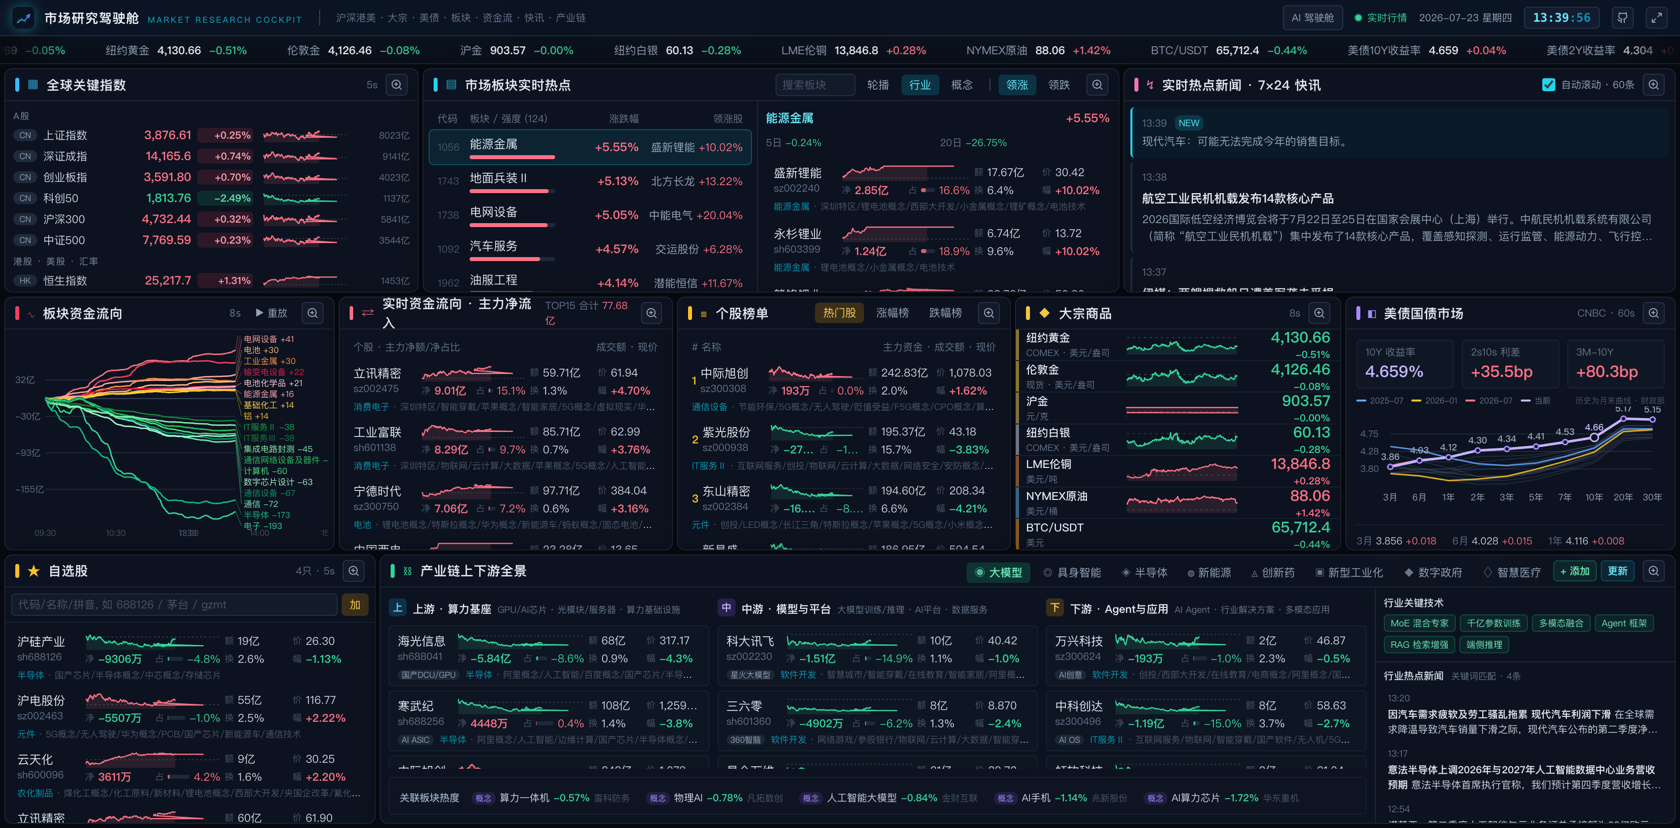
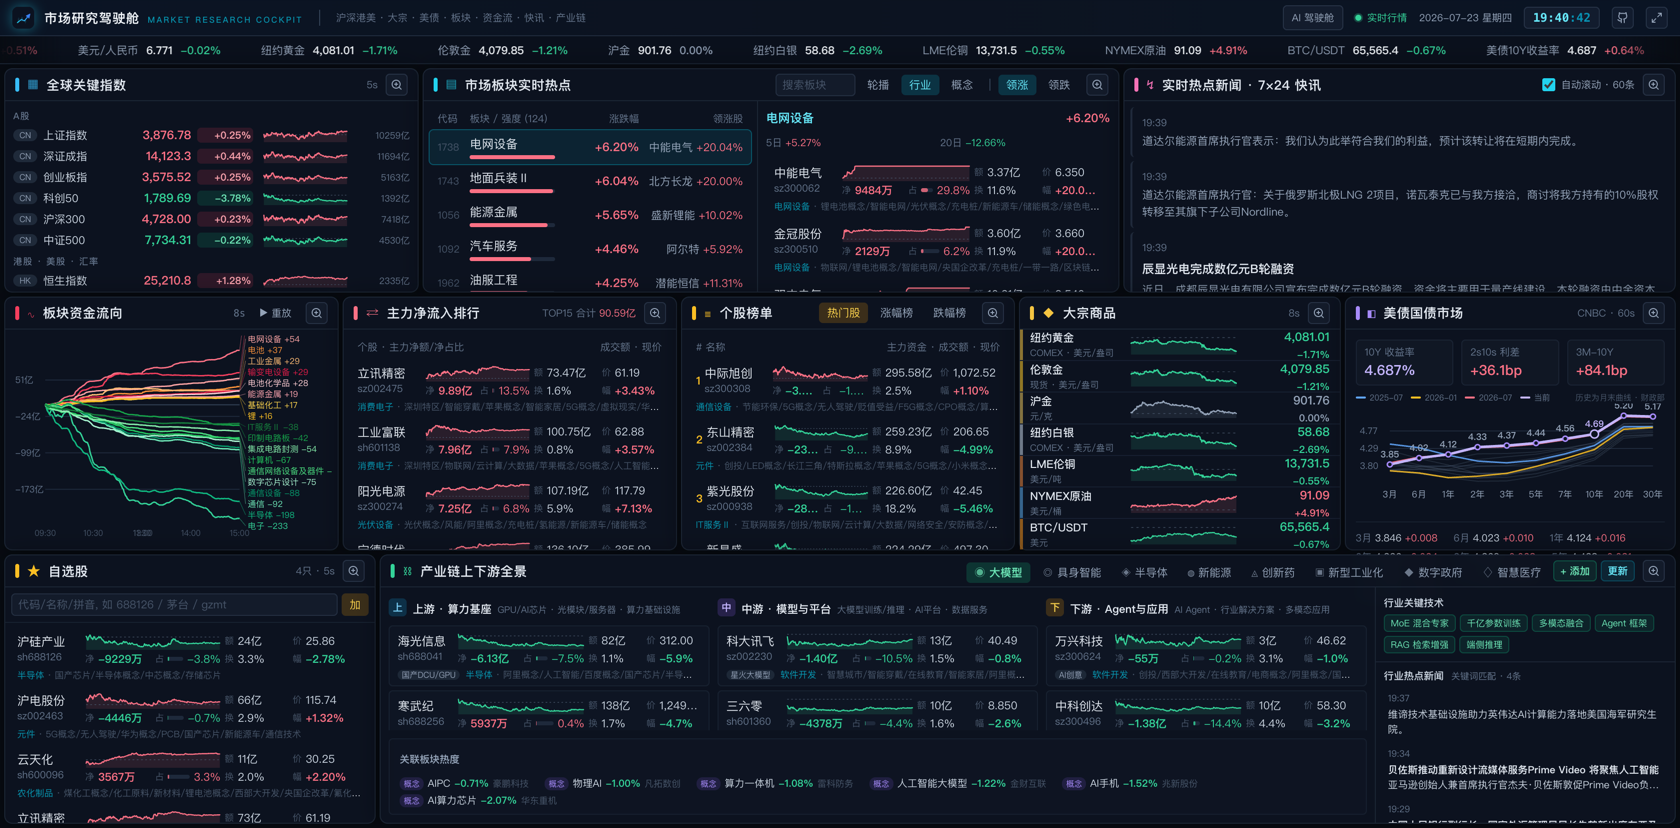
feat: 统一面板数字字号(商品12px/美债14px) + 资金流面板改名主力净流入排行 + 更新截图

diff --git a/src/components/dash/TreasuryPanel.tsx b/src/components/dash/TreasuryPanel.tsx
@@ -81,19 +81,19 @@ export function TreasuryPanel({ className = "", ...zoomProps }: { className?: st
         <div className="mb-2 grid grid-cols-3 gap-2">
           <div className="rounded border border-slate-700/30 bg-slate-800/20 px-2 py-1">
             <div className="text-[10px] text-slate-500">10Y 收益率</div>
-            <div className="text-[16px] font-bold text-violet-300" style={{ fontVariantNumeric: "tabular-nums" }}>
+            <div className="text-[14px] font-semibold text-violet-300" style={{ fontVariantNumeric: "tabular-nums" }}>
               {y10 ? `${y10.yield.toFixed(3)}%` : "——"}
             </div>
           </div>
           <div className="rounded border border-slate-700/30 bg-slate-800/20 px-2 py-1">
             <div className="text-[10px] text-slate-500">2s10s 利差</div>
-            <div className={`text-[16px] font-bold ${spread2s10s != null ? clsChg(spread2s10s) : "text-slate-500"}`} style={{ fontVariantNumeric: "tabular-nums" }}>
+            <div className={`text-[14px] font-semibold ${spread2s10s != null ? clsChg(spread2s10s) : "text-slate-500"}`} style={{ fontVariantNumeric: "tabular-nums" }}>
               {spread2s10s != null ? `${spread2s10s > 0 ? "+" : ""}${spread2s10s.toFixed(1)}bp` : "——"}
             </div>
           </div>
           <div className="rounded border border-slate-700/30 bg-slate-800/20 px-2 py-1">
             <div className="text-[10px] text-slate-500">3M-10Y {spread3m10y != null && spread3m10y < 0 ? "(倒挂)" : ""}</div>
-            <div className={`text-[16px] font-bold ${spread3m10y != null ? clsChg(spread3m10y) : "text-slate-500"}`} style={{ fontVariantNumeric: "tabular-nums" }}>
+            <div className={`text-[14px] font-semibold ${spread3m10y != null ? clsChg(spread3m10y) : "text-slate-500"}`} style={{ fontVariantNumeric: "tabular-nums" }}>
               {spread3m10y != null ? `${spread3m10y > 0 ? "+" : ""}${spread3m10y.toFixed(1)}bp` : "——"}
             </div>
           </div>

diff --git a/src/components/dash/CommodityPanel.tsx b/src/components/dash/CommodityPanel.tsx
@@ -38,7 +38,7 @@ export function CommodityPanel({ className = "", ...zoomProps }: { className?: s
                 {m && m.points.length > 1 && <Spark points={m.points} prec={m.prec} width={100} height={22} fluid emptyLabel="—" session="h24" />}
               </div>
               <div className="w-[84px] shrink-0 text-right">
-                <div className={`text-[15px] font-bold leading-5 ${q ? clsChg(q.pct) : "text-slate-600"}`} style={{ fontVariantNumeric: "tabular-nums" }}>
+                <div className={`text-[12px] font-semibold leading-5 ${q ? clsChg(q.pct) : "text-slate-600"}`} style={{ fontVariantNumeric: "tabular-nums" }}>
                   {q ? fmtPrice(q.price) : "——"}
                 </div>
                 <div className={`text-[10px] font-semibold ${q ? clsChg(q.pct) : ""}`} style={{ fontVariantNumeric: "tabular-nums" }}>

diff --git a/src/components/dash/MoneyFlowPanel.tsx b/src/components/dash/MoneyFlowPanel.tsx
@@ -14,7 +14,7 @@ export function MoneyFlowPanel({ className = "", ...zoomProps }: { className?: s
     <Panel
       className={className}
       {...zoomProps}
-      title="实时资金流向 · 主力净流入"
+      title="主力净流入排行"
       icon="⇄"
       accent="#fb7185"
       right={